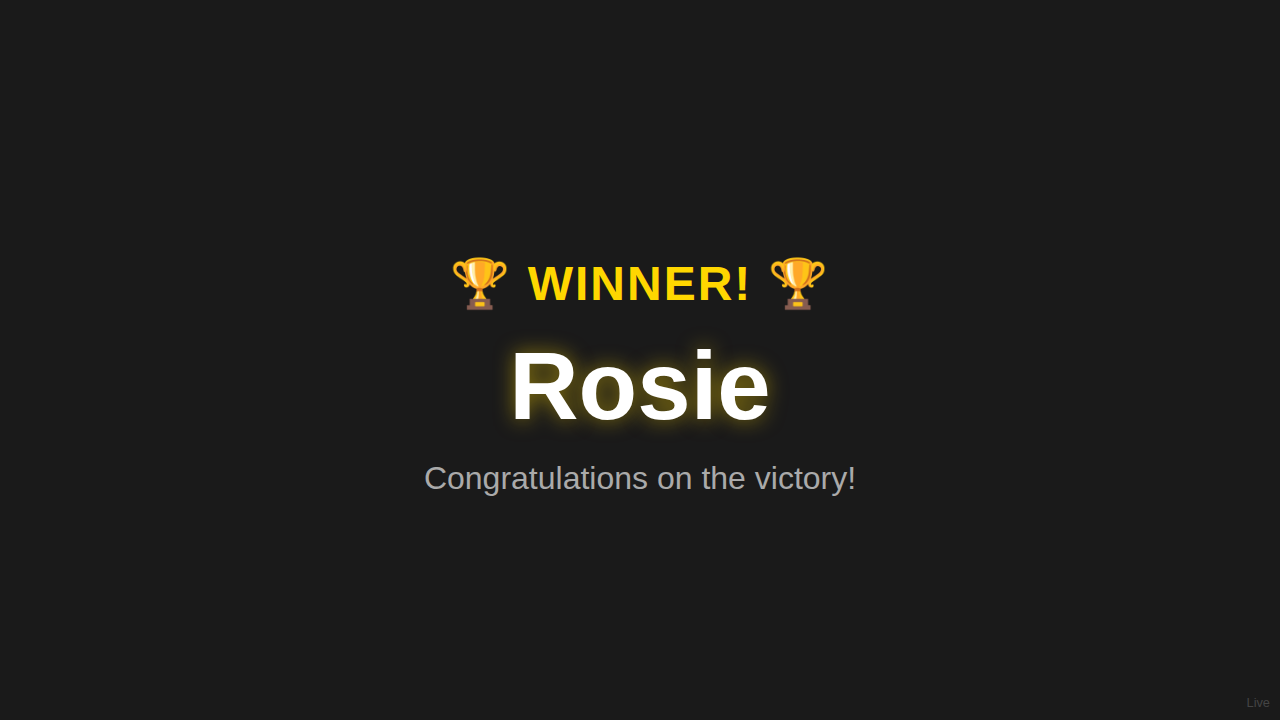
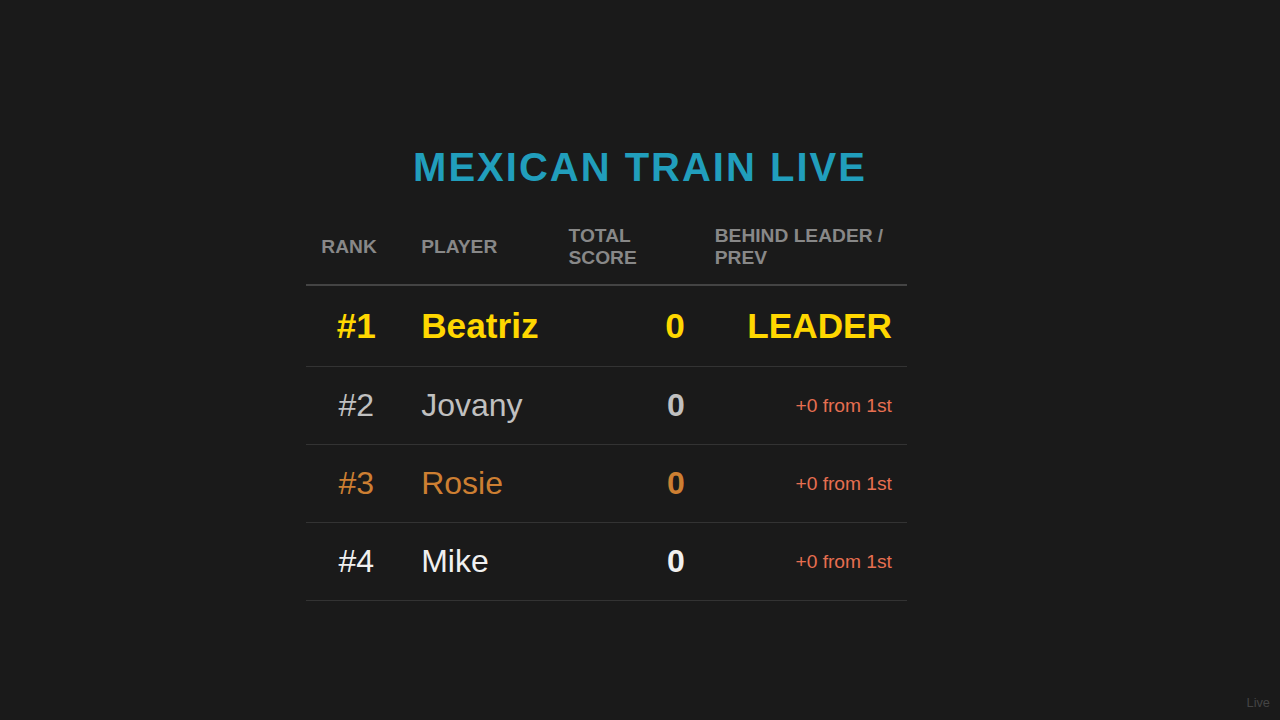
Finalize Live Tracker page with specific idle/winner graph logic.

diff --git a/live.html b/live.html
@@ -189,7 +189,9 @@
         let currentView = 'scoreboard'; // 'scoreboard', 'winner', 'graph'
         let chartInstance = null;
         const IDLE_TIMEOUT_MS = 60000; // 1 minute
+        const GRAPH_DISPLAY_DURATION_MS = 10000; // 10 seconds
         let idleInterval;
+        let cycleInterval;
 
         // --- DOM Elements ---
         const dom = {
@@ -224,15 +226,19 @@
             // Listen to Wins (for Graph)
             const winsQuery = query(collection(db, 'wins'), orderBy('timestamp', 'desc'));
             onSnapshot(winsQuery, (snapshot) => {
-                allWins = snapshot.docs.map(d => ({ id: d.id, ...d.data() }));
+                // Filter wins ONLY for this game type ('mexican_train')
+                allWins = snapshot.docs
+                    .map(d => ({ id: d.id, ...d.data() }))
+                    .filter(w => w.gameId === 'mexican_train');
+
                 // If we are currently viewing the graph, update it immediately
                 if (currentView === 'graph') {
                     renderGraph();
                 }
             });
 
-            // Start Idle Timer
-            idleInterval = setInterval(checkIdle, 1000);
+            // Start Idle/Cycle Timer
+            idleInterval = setInterval(manageViewCycle, 1000);
         }
 
         function handleGameUpdate(docSnapshot) {
@@ -246,17 +252,19 @@
             }
 
             const data = docSnapshot.data();
+            const previousStatus = currentGameState ? currentGameState.status : null;
             currentGameState = { id: docSnapshot.id, ...data };
 
             // Determine view based on game status
             if (currentGameState.status === 'completed') {
-                // If it just transitioned to completed, showing Winner View is prioritized
-                // Logic: If we are in 'graph', force switch to 'winner'.
-                // If we are in 'scoreboard', switch to 'winner'.
-                // If already in 'winner', just update data.
-                showView('winner');
+                // If newly completed, show Winner immediately
+                if (previousStatus !== 'completed') {
+                    showView('winner');
+                    lastUpdateTimestamp = Date.now(); // Reset timer so we stay on winner for a bit
+                }
+                // If already completed, let the cycle manage views (Winner <-> Graph)
             } else {
-                // Ongoing game
+                // Ongoing game: Always show scoreboard on update
                 showView('scoreboard');
             }
         }
@@ -281,15 +289,46 @@
             }
         }
 
-        function checkIdle() {
-            const timeSinceUpdate = Date.now() - lastUpdateTimestamp;
+        function manageViewCycle() {
+            const now = Date.now();
+            const timeSinceLastUpdate = now - lastUpdateTimestamp;
 
-            // If we are NOT in graph view, and time > timeout, switch to graph
-            if (currentView !== 'graph' && timeSinceUpdate > IDLE_TIMEOUT_MS) {
-                console.log("Idle timeout reached. Switching to Graph.");
-                showView('graph');
+            if (currentGameState && currentGameState.status === 'completed') {
+                // CYCLE: Winner (10s) <-> Graph (10s)
+                // We use a simple modulo logic based on time since completion (or last update)
+                // However, lastUpdateTimestamp resets on db update. Let's use a local cycle state.
+                // Actually, simpler: toggle every 10 seconds.
+
+                // We need a stable reference time. Let's use `now`.
+                // cyclePhase: 0-10s -> Winner, 10-20s -> Graph, 20-30s -> Winner...
+                const cycleDuration = 20000; // 20s total cycle
+                const phase = timeSinceLastUpdate % cycleDuration;
+
+                if (phase < 10000) {
+                    if (currentView !== 'winner') showView('winner');
+                } else {
+                    if (currentView !== 'graph') showView('graph');
+                }
+
+            } else {
+                // ONGOING GAME: Scoreboard (Active) -> Graph (Idle) -> Scoreboard
+
+                if (currentView === 'scoreboard') {
+                    // Switch to graph if idle for > 1 min
+                    if (timeSinceLastUpdate > IDLE_TIMEOUT_MS) {
+                        console.log("Idle timeout reached. Switching to Graph.");
+                        showView('graph');
+                        lastUpdateTimestamp = now; // Reset "timer" for the graph duration
+                    }
+                } else if (currentView === 'graph') {
+                    // Switch back to scoreboard after 10 seconds
+                    if (timeSinceLastUpdate > GRAPH_DISPLAY_DURATION_MS) {
+                        console.log("Graph duration ended. Switching back to Scoreboard.");
+                        showView('scoreboard');
+                        lastUpdateTimestamp = now; // Reset "timer" for the scoreboard idle check
+                    }
+                }
             }
-            // Note: We don't automatically switch BACK from graph unless an update happens (handled in handleGameUpdate)
         }
 
         function renderScoreboard() {
